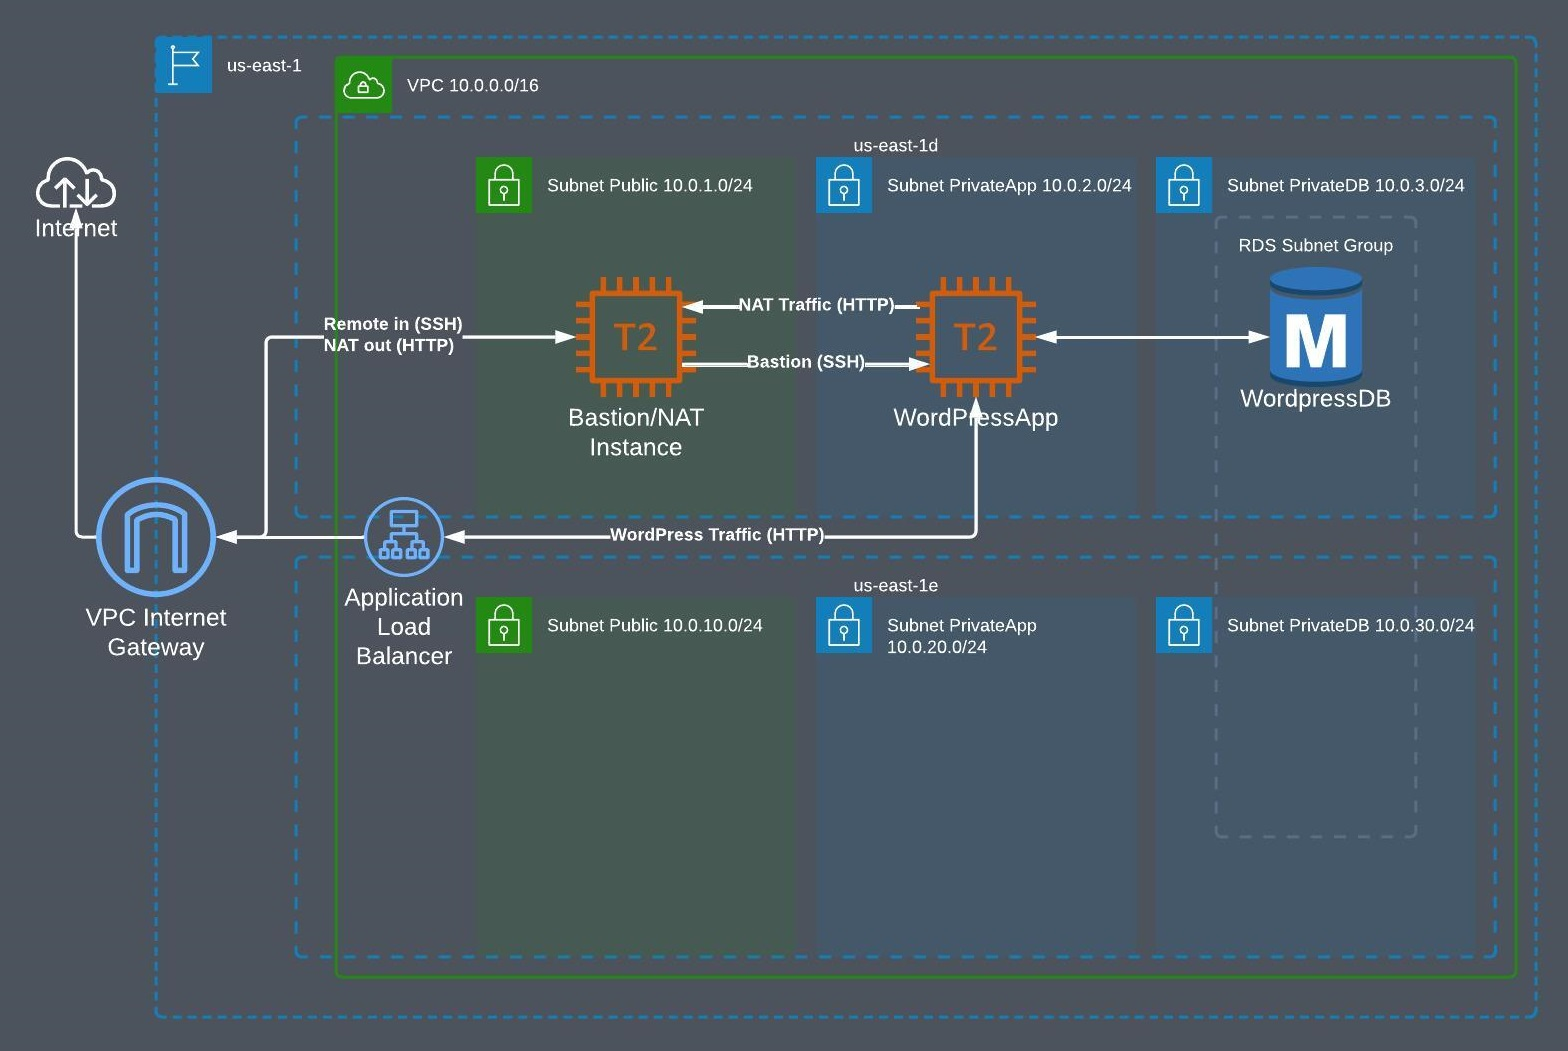
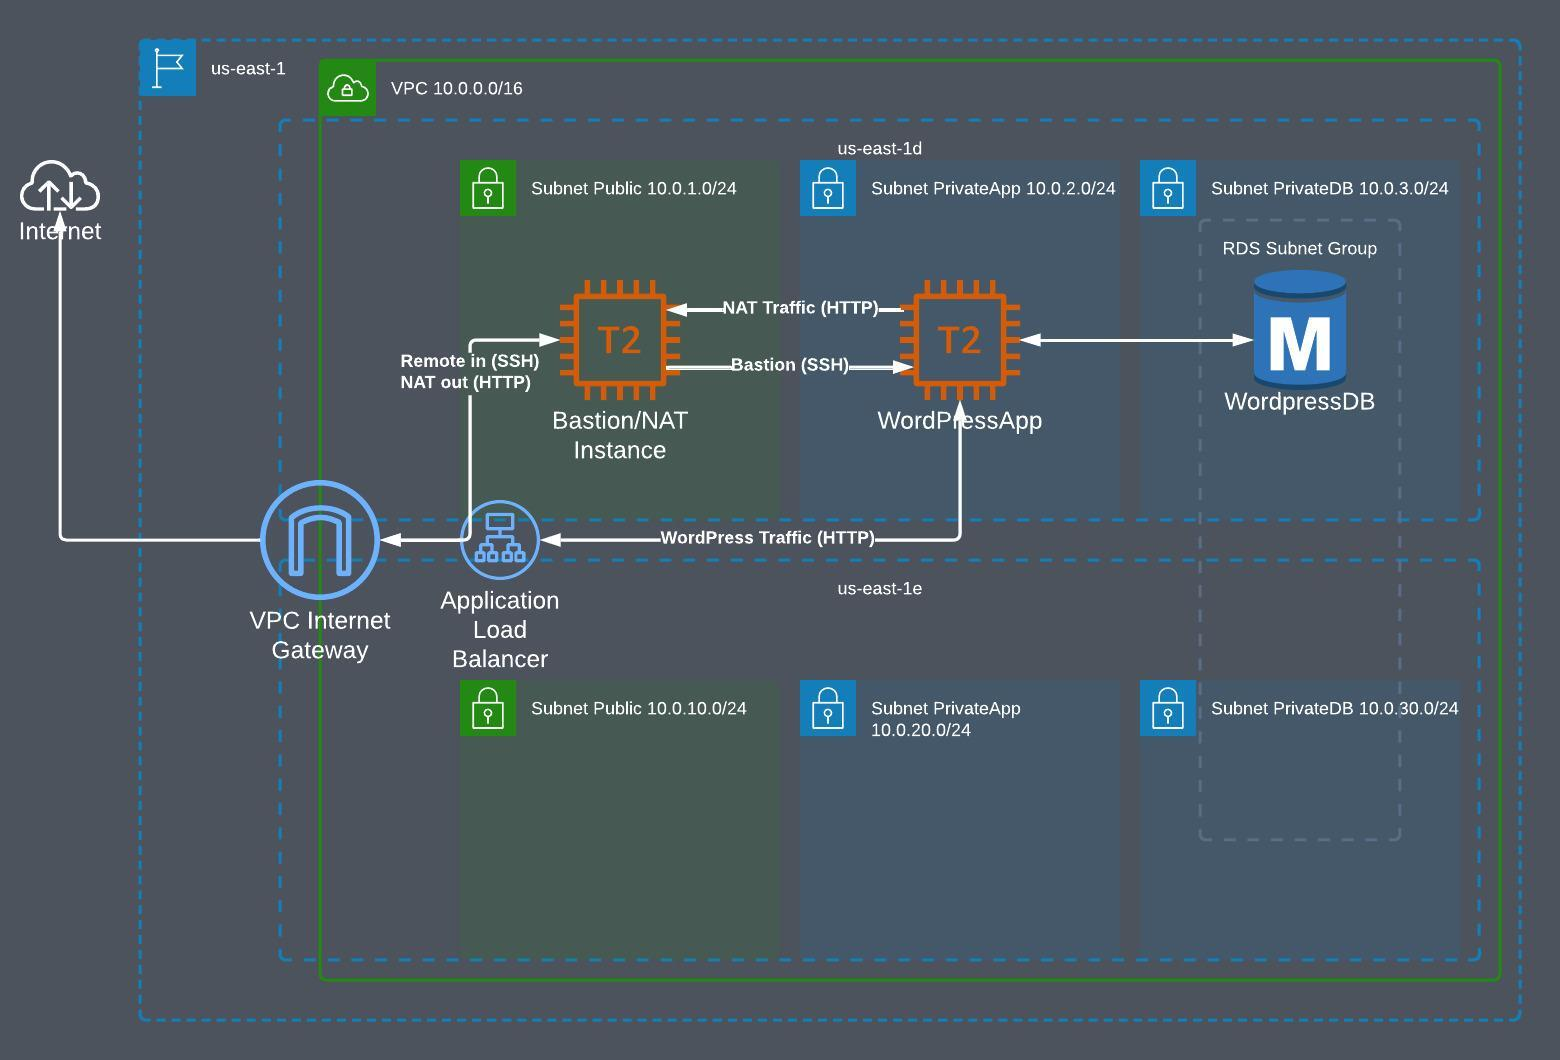
Document intro and overview of readme. Made progress on 01_3_Tier_Network.json

Changed region(s): [[0.0, 0.0304, 0.9846, 0.9743], [0.3692, 0.6394, 0.4, 0.6698]]

diff --git a/README.md b/README.md
@@ -11,13 +11,27 @@ This project serves more to build experience than to solve any practical issues 
 6. Configure WordPress
 
 ## Architectural Overview
-This WordPress app is built on three-tier architecture. Within a single availability zone (AZ), 
+This WordPress app is built on three-tier architecture. The design of the three tiers (presentation tier, app tier, and data tier) is modelled after the [WordPress: Best Practices on AWS](https://aws.amazon.com/blogs/architecture/wordpress-best-practices-on-aws/) whitepaper. 
+
+The three tiers are populated as follows:
+ |Layer|Function|Resource|
+ |---|---|---|
+ | 1. Presentation tier | Dual purpose NAT Instance/Bastion server |t2.micro EC2 instance|
+ |2. Application tier | WordPress server | t2.micro EC2 instance|
+ |3. Data Tier|MySQL Database|db.t3.micro RDS instance (single AZ)|
+
+I spin up these resources within a **VPC** generated by CloudFormation. Each resource is given its own subnet in a single availability zone (AZ). A second set of subnets is defined in a second AZ, which satisfies the subnet group requirements of RDS and allows for easy scaling in the future.
+
+The VPC connects to the internet through an **Internet Gateway**. Only the presentation layer is a publicly accessible (i.e. has a route to the Internet Gateway defined). 
+
+Note that I opt to create a NAT Instance out of an EC2 instance, rather than use AWS's built-in NAT Gateways. This is a cost-saving measure. See section 4 for more details.
 
 <Details><Summary>See the architectural diagram</summary>
 <picture>
   <source media="(prefers-color-scheme: dark)" srcset="/assets/WordPress Architecture Dark Mode.jpeg" | width=750>
   <source media="(prefers-color-scheme: light)" srcset="/assets/WordPress Architecture.jpeg" | width=750>
-  <img alt="A diagram of the architecture that is created with these CloudFormation Templates." src="/assets/WordPress Architecture.jpeg" | width=750>
+  <img alt="A diagram of the architecture that is created with these CloudFormation Templates." src="/assets/WordPress Architecture Dark Mode.jpeg" | width=750>
 </picture>
 </Details>
 
+## Initialize the VPC
